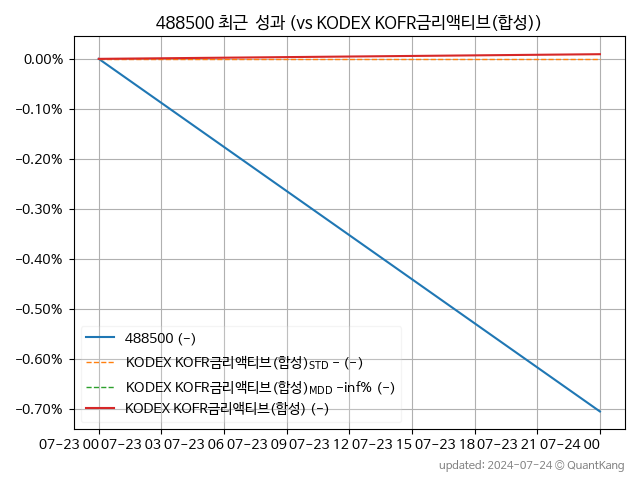
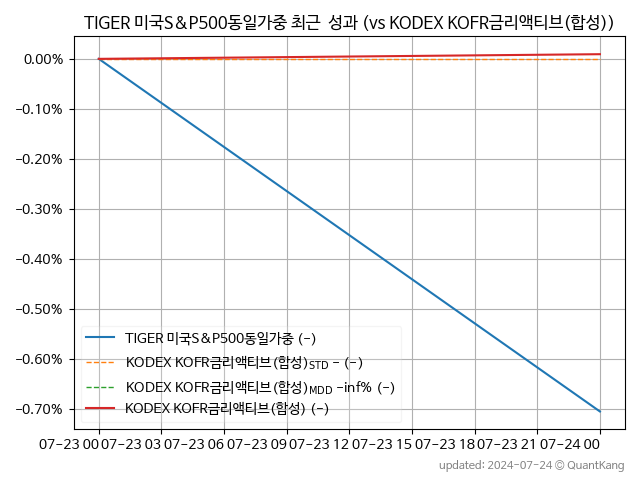
update

Changed region(s): [[0.125, 0.0312, 0.9688, 0.0625], [0.1875, 0.6875, 0.5, 0.7188]]

diff --git a/_posts/vs/2024-07-25-488500-vs-379800.md b/_posts/vs/2024-07-25-488500-vs-379800.md
@@ -1,0 +1,117 @@
+---
+layout: single
+title: TIGER 미국S&P500동일가중 vs KODEX 미국S&P500TR
+excerpt: TIGER 미국S&P500동일가중의 최근  CAGR은 -로 KODEX 미국S&P500TR의 -와 비슷했습니다.
+header:
+  overlay_color: "#333"
+  show_overlay_excerpt: false
+toc: true
+categories:
+- vs
+keywords: KODEX 미국S&P500TR, TIGER 미국S&P500동일가중, TIGER 미국S&P500동일가중 KODEX 미국S&P500TR 비교
+---
+
+## 비교 상품 소개
+
+
+TIGER 미국S&P500동일가중 상품과 KODEX 미국S&P500TR 상품의 성과를 수익률과 위험도로 비교합니다.
+
+
+
+
+
+{% include commons/vs-notice.md %}
+
+## 지난 성과
+
+두 상품의 성과를 비교할 수 있는 가장 긴 기간은 최근 입니다. 아래는 이 기간의 성과[^fn_vs_perf]를 그래프와 표로 나타낸 것입니다.
+그래프 범례에서 괄호안의 퍼센트 수치는 CAGR[^fn_vs_cagr_metric]입니다.
+하단의 보조 그래프는 KODEX 미국S&P500TR 대비 TIGER 미국S&P500동일가중의 비를 나타냅니다.
+TIGER 미국S&P500동일가중의 수익률이 KODEX 미국S&P500TR보다 지속적으로 우세하면 상승하고, 반대의 경우에는 하락합니다.
+
+![TIGER 미국S&P500동일가중](/vs/images/488500-vs-379800_dual.png){: .align-center}
+
+| **종목** | **CAGR** | **편차** | **샤프** | **MDD** | **AvDD** |
+| :------------ | ------: | -----------: | -------: | ------: | -------: |
+| TIGER 미국S&P500동일가중 | - | 4.5<small>%</small> | nan | -1.0<small>%</small> | -0.6<small>%</small> |
+| KODEX 미국S&P500TR | - | 6.8<small>%</small> | nan | -2.0<small>%</small> | -0.9<small>%</small> |
+
+<!-- more -->
+
+
+성과를 분석하는 전통적인 방법인 수익률과 위험도[^fn_vs_risk]를 살펴봅니다.
+
+**수익률 지표 (CAGR):** TIGER 미국S&P500동일가중의 CAGR은 -로 KODEX 미국S&P500TR의 -와 비슷했습니다. (비슷한 수익률)[^fn_vs_comp]
+
+**위험도 지표 (표준편차):** TIGER 미국S&P500동일가중의 표준편차는 4.5%로 KODEX 미국S&P500TR의 6.8%보다 -2.3% 낮았습니다. (낮은 위험도)
+
+**위험도 지표 (MDD):** TIGER 미국S&P500동일가중의 1.0%의 MDD는 KODEX 미국S&P500TR의 2.0%와 비슷했습니다. (비슷한 위험도)
+
+
+
+## 동일 수준 위험 노출을 위한 비중 조절
+
+수익률과 위험도가 다른 상품을 비교하는 방법의 하나는, 둘 중 하나를 동일하게 설정하고, 나머지 하나를 비교하는 것입니다.
+여기서는 KODEX 미국S&P500TR의 투자 비중[^fn_vs_weight]을 조절하여 TIGER 미국S&P500동일가중의 위험도와 유사하게 맞추어 수익률를 비교합니다.
+
+**위험도 지표 (표준편차):** 표준편차를 동일한 값으로 맞추기 위해서는 6.8% / 4.5% = 66% 비중으로 투자하면 됩니다.[^fn_vs_sharpe]
+
+**위험도 지표 (MDD):** MDD를 동일한 값으로 맞추기 위해서는 2.0% / 1.0% = 51% 비중으로 투자하면 됩니다.
+
+
+{% include /commons/ads/adsense.html %}
+
+
+
+## 동일 수준 위험하에서의 추정 성과
+
+아래는 비중을 조절한 경우를 추가하여, 그래프와 표에 성과를 기록한 것입니다.
+KODEX 미국S&P500TR<sub>STD</sub>는 표준편차를 맞춘[^fn_vs_weighting] 경우이고, KODEX 미국S&P500TR<sub>MDD</sub>는 MDD를 맞춘 경우입니다.
+앞에서와 같이 그래프 범례에서 괄호안의 퍼센트 수치는 CAGR입니다.
+
+
+![TIGER 미국S&P500동일가중](/vs/images/488500-vs-379800.png){: .align-center}
+
+
+
+| **종목** | **CAGR** | **편차** | **샤프** | **MDD** | **AvDD** |
+| :------------ | ------: | -----------: | -------: | ------: | -------: |
+| TIGER 미국S&P500동일가중 | - | 4.5<small>%</small> | nan | -1.0<small>%</small> | -0.6<small>%</small> |
+| KODEX 미국S&P500TR | - | 6.8<small>%</small> | nan | -2.0<small>%</small> | -0.9<small>%</small> |
+| KODEX 미국S&P500TR<sub>STD</sub> <small>(66%)</small> | - | 4.5<small>%</small> | nan | -1.3<small>%</small> | -0.6<small>%</small> |
+| KODEX 미국S&P500TR<sub>MDD</sub> <small>(51%)</small> | - | 3.5<small>%</small> | nan | -1.0<small>%</small> | -0.5<small>%</small> |
+
+
+
+각각의 경우를 TIGER 미국S&P500동일가중의 성과와 비교해 봅니다.
+
+**위험도 지표 (표준편차):** 66% 투자 비중으로 표준편차를 비슷한 수준으로 맞추면, CAGR은 -로 TIGER 미국S&P500동일가중의 -와 비슷했습니다. (비슷한 수익률)
+
+**위험도 지표 (MDD):** 51% 투자 비중으로 하여 MDD를 비슷한 수준으로 맞추면, CAGR은 -로 TIGER 미국S&P500동일가중의 -와 비슷했습니다. (비슷한 수익률)
+
+
+
+
+## 최종 비교
+
+**주의** 투자 시점과 기간, 그리고 전략에 따라 다른 결과가 나올 수 있습니다. 백테스트 기간이 짧은 경우 통계적 신뢰성이 떨어질 수 있습니다. 미래에도 동일한 경향이 지속된다고 보장할 수 없습니다.
+{: .notice--warning}
+
+지난 간 거치식으로 투자했다고 가정합니다.
+
+KODEX 미국S&P500TR의 투자 비중을 조절하여 표준편차나 MDD를 동일하게 맞추면, CAGR이 평균 nan%인 포트폴리오를 만들 수 있습니다.
+이 포트폴리오는 TIGER 미국S&P500동일가중의 -와 비슷했습니다.
+
+### TIGER 미국S&P500동일가중 ≒ KODEX 미국S&P500TR
+{: .text-center}
+**참고** 위험 대비 수익률이 비슷한 경우라면, 적은 비중으로 동일한 투자 효과를 낼 수 있는 상품을 선택하는 것이, 투자 전략 유연성 측면에서는 보다 유리할 수 있습니다.
+{: .notice--info}
+
+
+## 관련 정보
+
+- [TIGER 미국S&P500동일가중은 성공할 수 있을까? (빅테크의 성장과 동일가중)](https://kongdori.tistory.com/297)
+- [동일가중은 어떻게 시총가중을 이길 수 있을까? (초대형주 주도의 장세에서는 어떻게 될까?)](https://kongdori.tistory.com/296)
+- [유사 종목 성과 비교 목록](/vs/){: .btn .btn--info}
+
+{% include commons/footnotes.md %}
